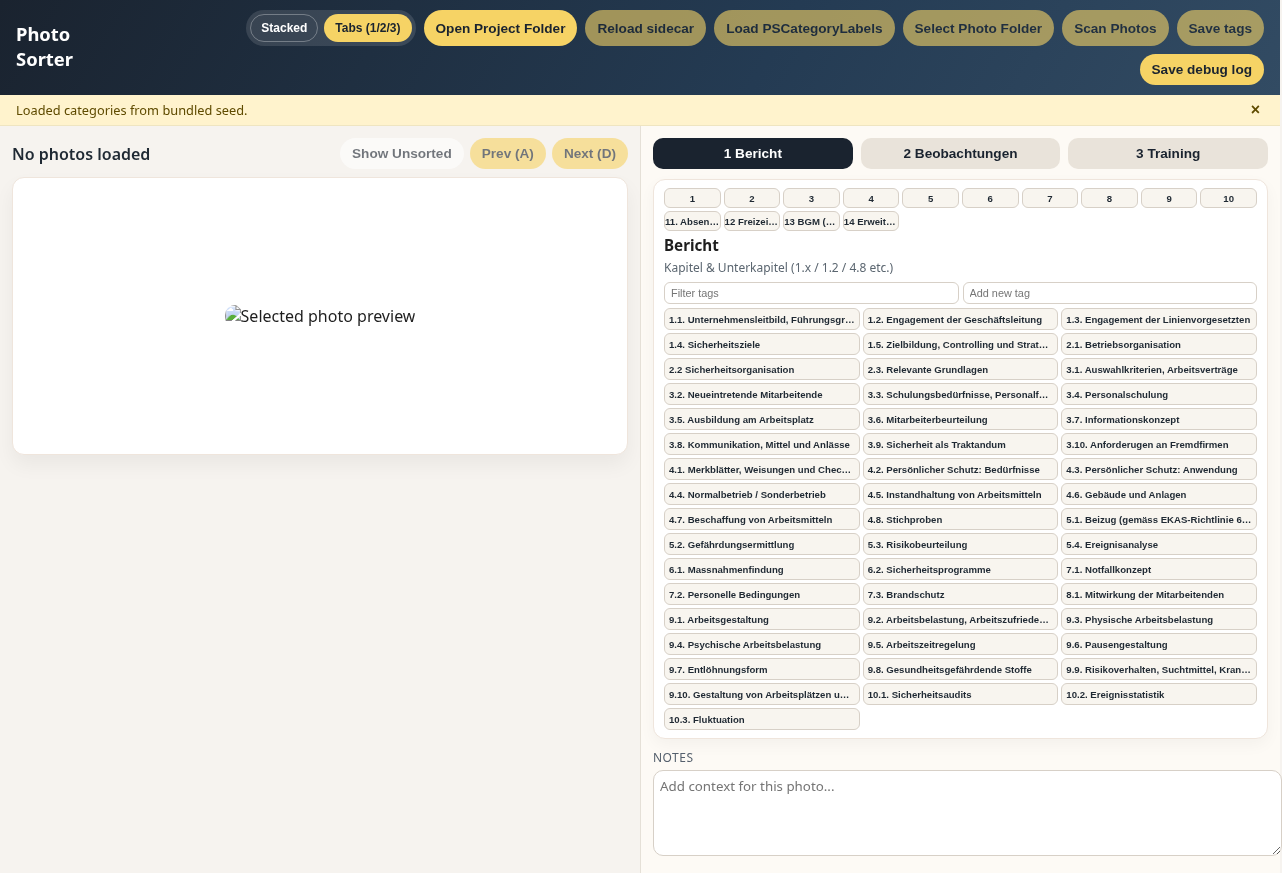
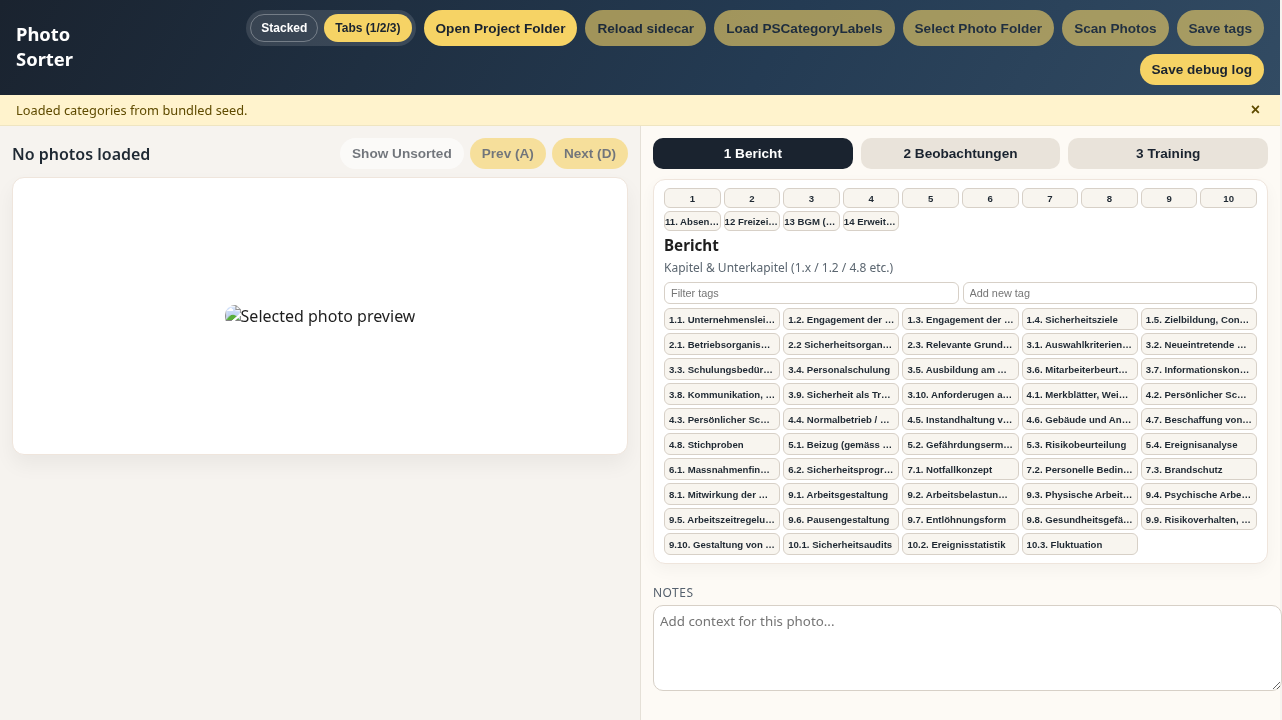
Fix tabbed observations panel and unify grids

diff --git a/AutoBericht/mini/photosorter.js b/AutoBericht/mini/photosorter.js
@@ -22,6 +22,8 @@
     observations: document.getElementById("panel-observations"),
     training: document.getElementById("panel-training"),
   };
+  const observationsSlot = document.getElementById("panel-observations-slot");
+  const viewerObservations = document.querySelector(".viewer__observations");
 
   const debug = window.AutoReportDebug || {
     logLine: () => {},
@@ -84,6 +86,14 @@
     document.body.classList.toggle("layout-stacked", layoutMode === "stacked");
   };
 
+  const placeObservationsPanel = () => {
+    const panel = panels.observations;
+    if (!panel) return;
+    const target = layoutMode === "tabs" ? observationsSlot : viewerObservations;
+    if (!target || panel.parentElement === target) return;
+    target.appendChild(panel);
+  };
+
   const updateLayoutToggle = () => {
     layoutToggleButtons.forEach((button) => {
       const isActive = button.dataset.layout === layoutMode;
@@ -99,6 +109,7 @@
       window.localStorage.setItem("photosorterLayout", mode);
     }
     applyLayoutMode();
+    placeObservationsPanel();
     updateLayoutToggle();
     renderPanels();
   };
@@ -794,6 +805,7 @@
   const statusHidden = window.localStorage?.getItem("photosorterStatusHidden") === "1";
   updateStatusVisibility(statusHidden);
   applyLayoutMode();
+  placeObservationsPanel();
   updateLayoutToggle();
   setActivePanel(state.activePanel);
   ensureFsAccess();

diff --git a/AutoBericht/mini/photosorter.css b/AutoBericht/mini/photosorter.css
@@ -284,6 +284,10 @@ button[disabled] {
   overflow: hidden;
 }
 
+.panel-slot {
+  display: none;
+}
+
 .panel__chapters {
   display: grid;
   grid-template-columns: repeat(10, minmax(0, 1fr));
@@ -369,11 +373,15 @@ body.layout-tabs .panel.is-active {
 }
 
 body.layout-tabs .panel__tags {
-  grid-template-columns: repeat(3, 1fr);
+  grid-template-columns: repeat(5, 1fr);
 }
 
 body.layout-tabs .viewer__observations {
   display: none;
+}
+
+body.layout-tabs .panel-slot {
+  display: block;
 }
 
 body.layout-stacked .panel-tabs {

diff --git a/AutoBericht/mini/photosorter.html b/AutoBericht/mini/photosorter.html
@@ -60,6 +60,7 @@
         </div>
 
         <div class="panel panel--report" id="panel-report"></div>
+        <div class="panel-slot" id="panel-observations-slot"></div>
         <div class="panel panel--training" id="panel-training"></div>
 
         <div class="notes">
